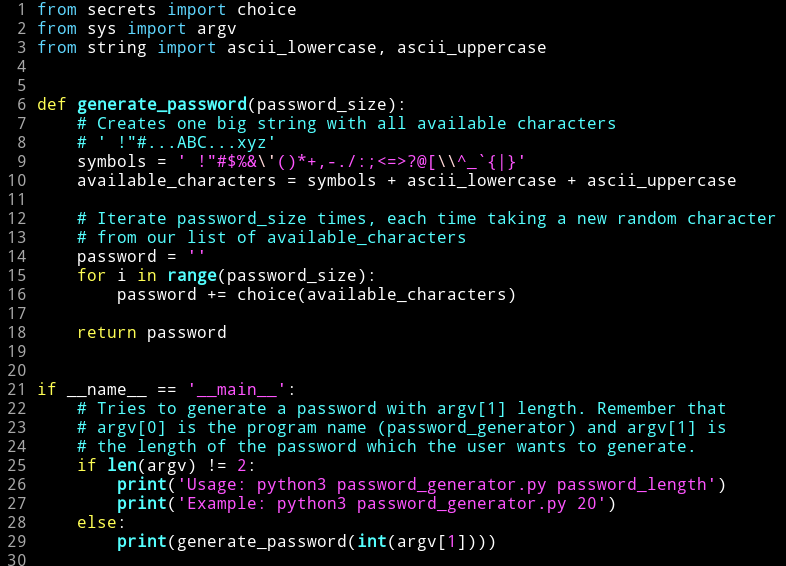
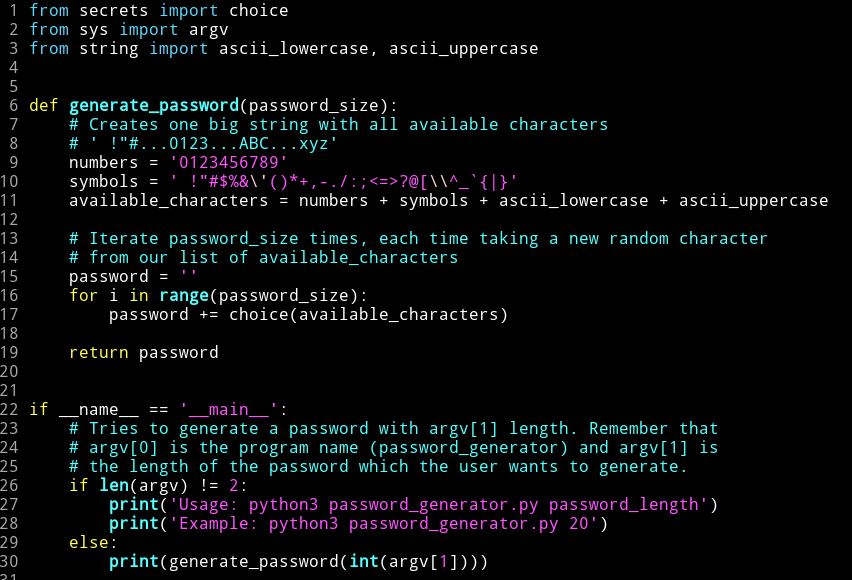
Changed screenshot

Changed region(s): [[0.0, 0.0, 0.9771, 1.0], [0.0611, 0.6608, 0.916, 0.9912]]

diff --git a/Python/Random_Password_Generator/password_generator.py b/Python/Random_Password_Generator/password_generator.py
@@ -5,9 +5,10 @@ from string import ascii_lowercase, ascii_uppercase
 
 def generate_password(password_size):
     # Creates one big string with all available characters
-    # ' !"#...ABC...xyz'
+    # ' !"#...0123...ABC...xyz'
+    numbers = '0123456789'
     symbols = ' !"#$%&\'()*+,-./:;<=>?@[\\^_`{|}'
-    available_characters = symbols + ascii_lowercase + ascii_uppercase
+    available_characters = numbers + symbols + ascii_lowercase + ascii_uppercase
 
     # Iterate password_size times, each time taking a new random character
     # from our list of available_characters
